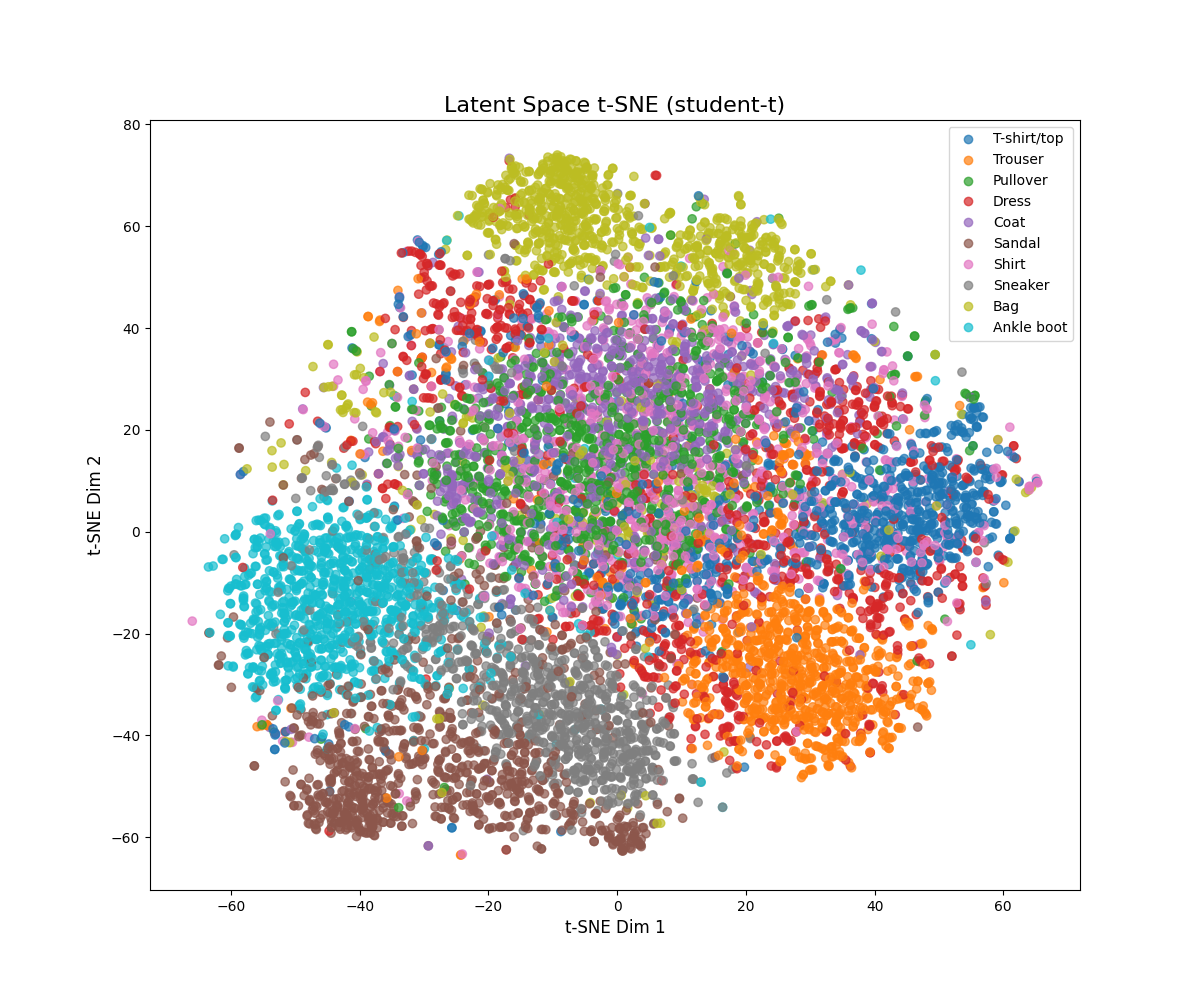
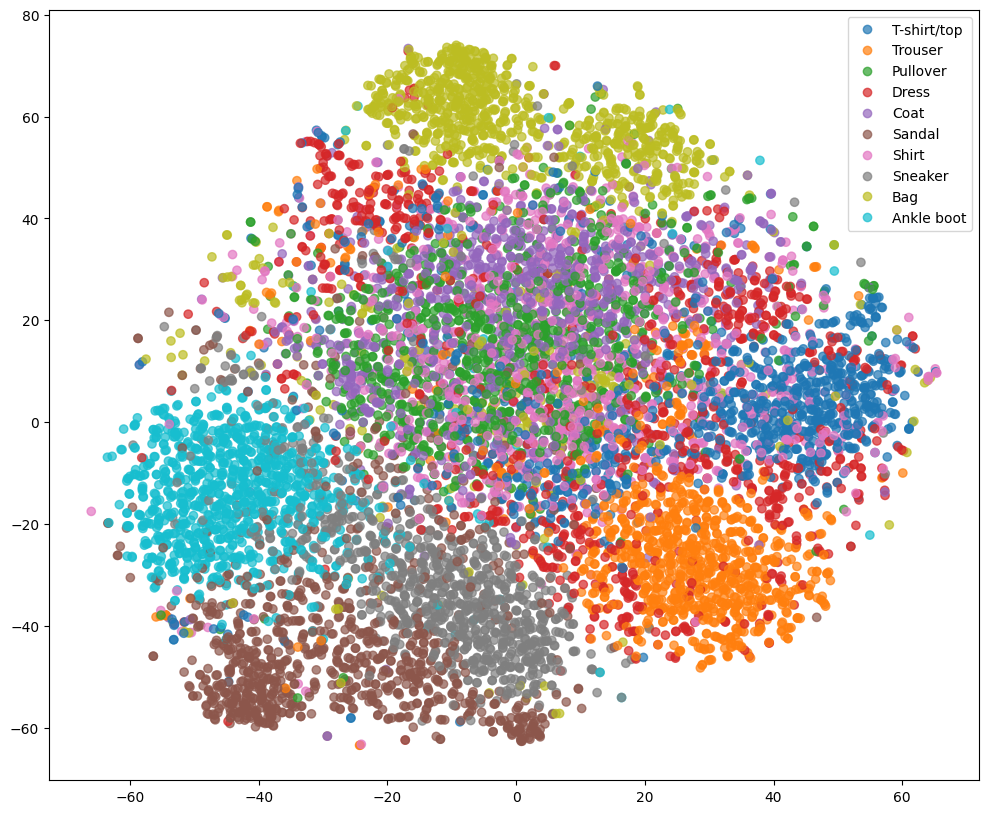
Tighten latent

diff --git a/scripts/plot_latent.py b/scripts/plot_latent.py
@@ -84,12 +84,9 @@ def main():
     plt.legend(handles=scatter.legend_elements()[0], labels=classes, loc="best")
     
     prior_name = run_args["prior"]
-    plt.title(f"Latent Space t-SNE ({prior_name})", fontsize=16)
-    plt.xlabel("t-SNE Dim 1", fontsize=12)
-    plt.ylabel("t-SNE Dim 2", fontsize=12)
 
     save_path = os.path.join(run_dir, "images", "latent_space_tsne.png")
-    plt.savefig(save_path) 
+    plt.savefig(save_path, bbox_inches='tight') 
     plt.close()
     
     print(f"Plot saved to: {save_path}")
